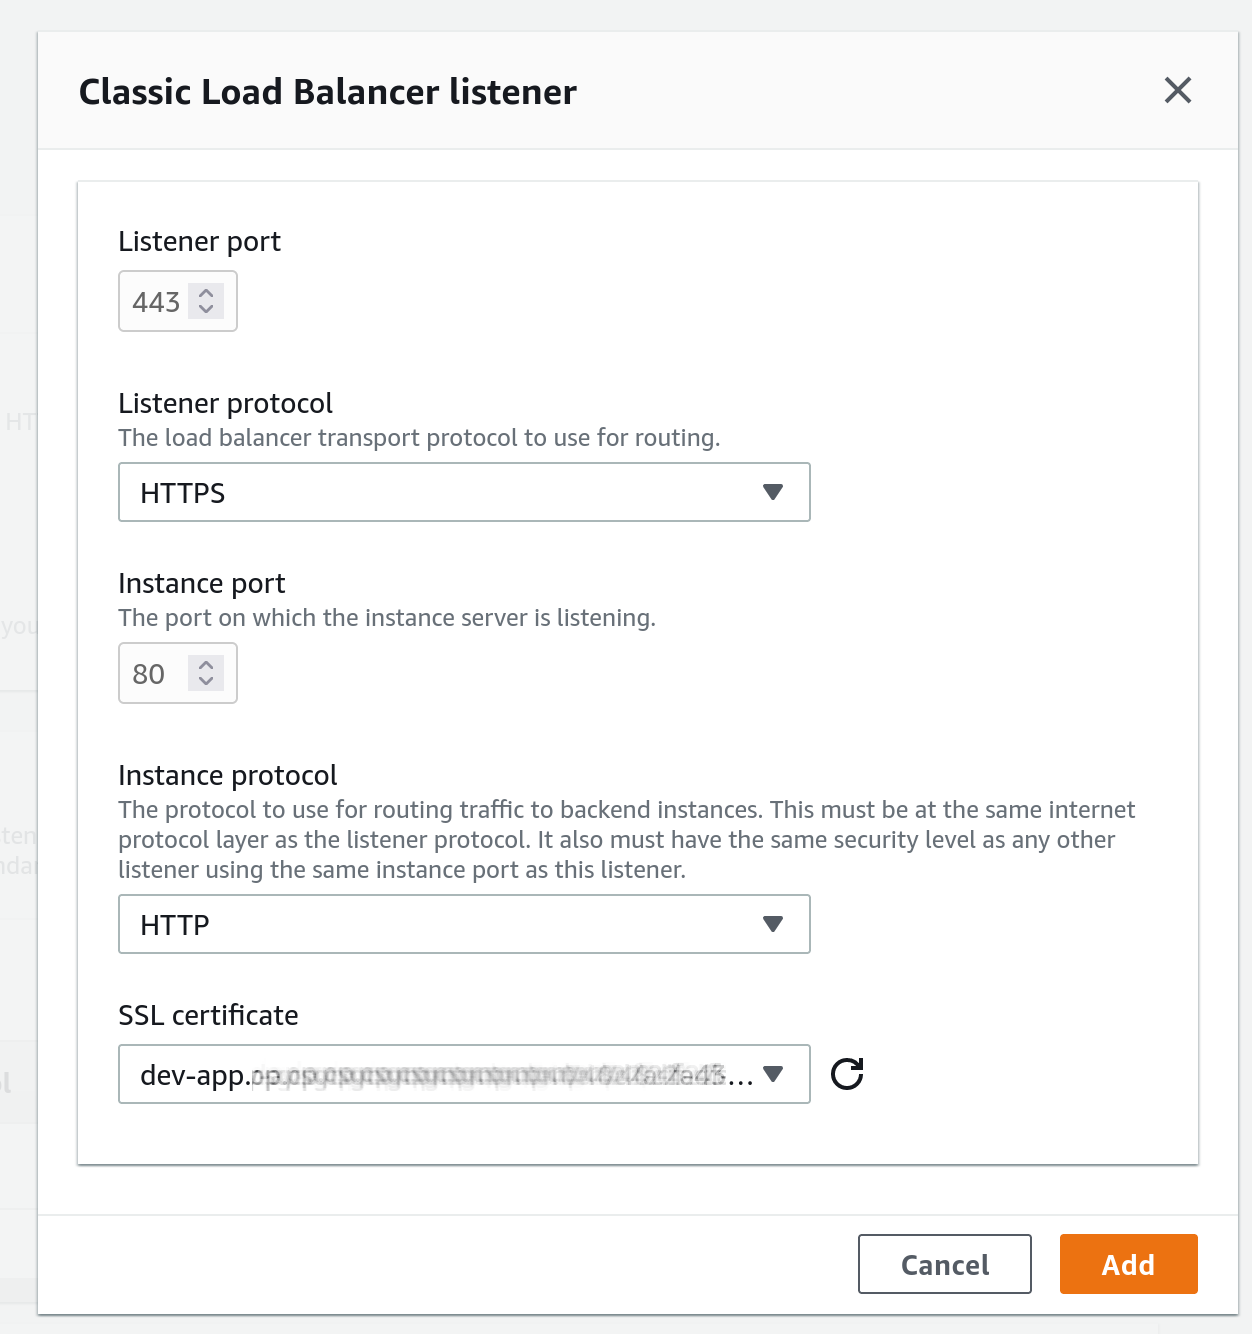
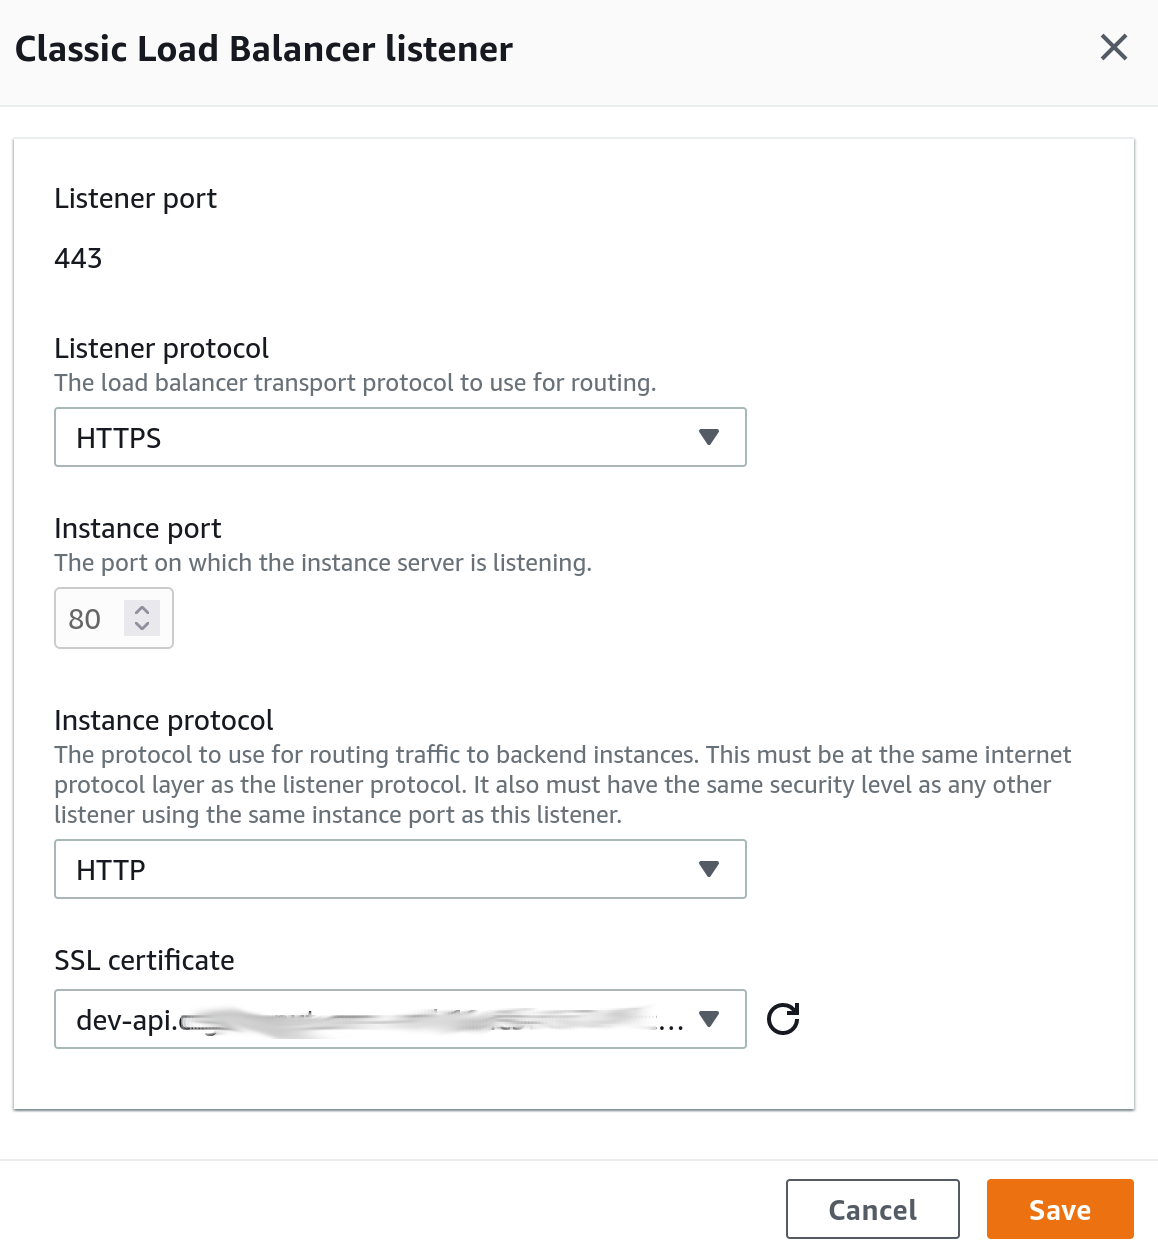
Deploying backend to AWS

diff --git a/backend/aws.md b/backend/aws.md
@@ -1,0 +1,119 @@
+# Deploy Go backend on AWS
+> Note: We assume all AWS services are in the same region, to avoid any potential issues. You own a domain name managed by AWS. The backend Go server will be deployed on Elastic BeanStalk with SSL / HTTP and a custom domain name. 
+
+### Install EBS CLI 
+
+To install Elastic beanstalk CLI
+
+```
+pip install awsebcli
+```
+
+## SSL certificate
+
+We will be serving the golang backend on HTTPS using a custom domain name. We need to create an `SSL` certificate for a custom subdomain using the Amazon Certificate Manager (ACM).
+
+- Request a public certificate
+
+![request](aws/acm/00-acm-request.png)
+
+- Use DNS validation to validate that you own the domain name. Enter the fully qualified domain name: `dev-api.cloudgenetics.com` and select `DNS Validation`. 
+
+![dns-validation](aws/acm/01-dns-validation.png)
+
+- Once the SSL certificate has been requested, the subdomain can be validated by creating a CNAME record on Route 53. Use the `create records in Route 53` option to automatically validate the domain and the attached SSL certificate. 
+
+![create-record](aws/acm/02-create-record-dns-validation.png)
+
+
+## Go backend on elastic beanstalk
+
+Elastic beanstalk offers a scalable way to deploy web applications. 
+
+> Note: Ensure the ACM certificates and other AWS services are in the same region.
+
+- Instead of using `eb create` to set-up an environment. Go to the welcome page on Elastic Beanstalk (https://console.aws.amazon.com/elasticbeanstalk/home?region=us-east-1#/welcome) and click on get started.
+
+![ebs-getting-started](aws/ebs/00-ebs-getting-started.png)
+
+- Create a web app with application name `dev`, choose a Platform `Go` and use `Go 1 on AWS Linux 2` with the recommended platform version. 
+
+![EBS app](aws/ebs/01-ebs-app.png)
+
+- Choose upload go code. Create a zip archive of the golang backend code and upload it:
+
+![EBS upload](aws/ebs/02-ebs-upload.png)
+
+- Choose `configure more options` and select `High availability` Presets:
+
+![EBS upload](aws/ebs/03-ha-app.png)
+
+- Select `Edit` on `Loand balancer` 
+
+![EBS upload](aws/ebs/04-ebs-load-balancer.png)
+
+- Choose `Classic Load Balancer` to add both `HTTP` and `HTTPS` listeners. Select "Add listener"
+
+![EBS upload](aws/ebs/05-elb-classic.png)
+
+- Set `Listener port` to `443` and `Listener protocol` to `HTTPS`. `Instance port` should be set to `80` and `Instance protocol` to `HTTP`. Select the SSL certificate `dev-api.domainname` created using ACM.  
+
+![EBS upload](aws/ebs/06-ebs-listener.png)
+
+- You should see two listeners one for HTTP and another for HTTPS.
+
+![EBS https listeners](aws/ebs/07-https-listeners.png)
+
+- Finally the `dev-env` should be ready after several minutes and health status should be `OK`.
+
+![EBS app](aws/ebs/08-ebs-ev.png)
+
+- Add the following configuration to `.elasticbeanstalk/config.yml`:
+
+```yml
+branch-defaults:
+  main:
+    environment: dev-env
+    group_suffix: null
+global:
+  application_name: dev
+  branch: null
+  default_ec2_keyname: aws-eb-csg-test
+  default_platform: Go 1 running on 64bit Amazon Linux 2
+  default_region: us-east-1
+  include_git_submodules: true
+  instance_profile: null
+  platform_name: null
+  platform_version: null
+  profile: null
+  repository: null
+  sc: git
+  workspace_type: Application
+```
+
+The `env` and `application_name` should match what's created in the Elastic Beanstalk. To update the code, you may use `eb deploy` to deploy a new version of the code on Elastic Beanstalk. 
+
+- Once the required version of code is running healthily on Elastic Beanstalk, we will now configure it to run on a custom domain name with HTTPS. 
+
+## Router 53 custom domain name 
+
+- On the hosted zone, create a new `A-record` with recordname `dev-api` pointing to the alias of the `Elastic Beanstalk` application.
+
+![api](aws/00-53-arecord-api.png)
+
+
+### EC2 Keypair (ssh access on ebs)
+Optionally, you may add an EC2 Key-pair to the Elastic Beankstalk application to SSH and check logs. 
+
+- Open EC2 Key-pair option on AWS and select `Create Key pair`.
+
+![create-key](aws/ec2-keypair/01-create-key.png)
+
+
+- Once the keypair is created, go to Elastic Beanstalk environment configuration under `security` and specify the `Key pair`. This may take a few minutes to update the environment. 
+
+![ebs-key](aws/ec2-keypair/03-ebs-key.png)
+
+![keypair](aws/ec2-keypair/00-key-pair.png)
+
+- Once updated you can SSH to the Elastic Beanstalk environment using `eb ssh`. Make sure the key is in `.ssh/` folder and `.elasticbeanstalk/config.yml` has the keyname specified to the one created in this step.

diff --git a/frontend/aws.md b/frontend/aws.md
@@ -93,7 +93,7 @@ We will create a distribution on AWS cloudfront to serve the static S3 files ove
 
 ## Configure Route53 for a custom domain name
 
-- In Route 53, on the hosted domain, create a new `A-record` of the subdomain `dev-app` and set it to the cloudfront alias `<uri>.cloudfront.net` address you obtained from the previous step. 
+- In Route 53, on the hosted domain choose your domainname and create a new `A-record` of the subdomain `dev-app` and set it to the cloudfront alias `<uri>.cloudfront.net` address you obtained from the previous step. 
 
 ![route53 alias](aws/53/00-a-record-app.png)
 
